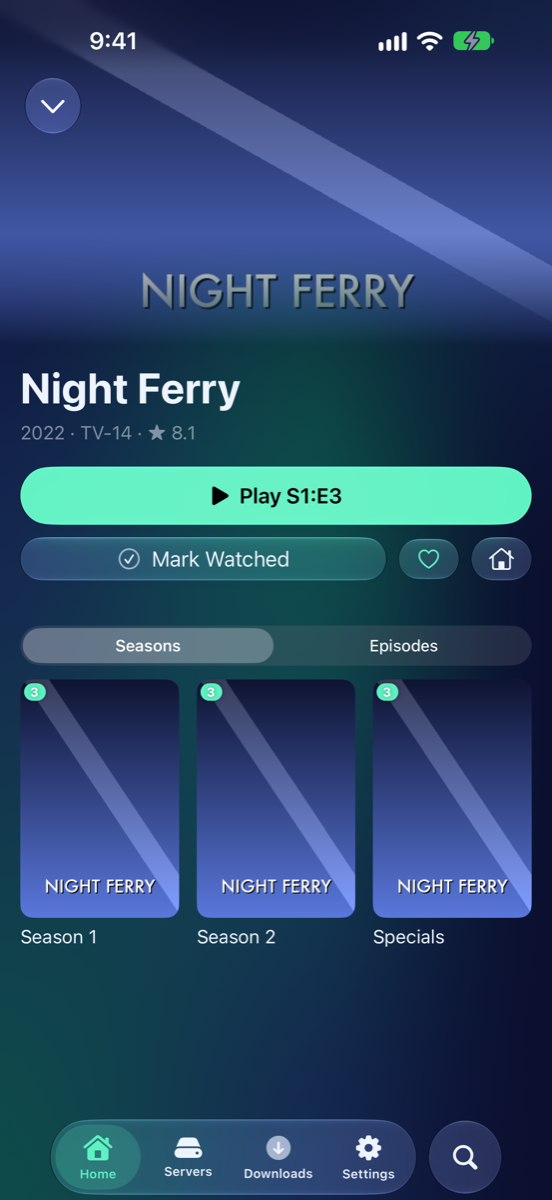
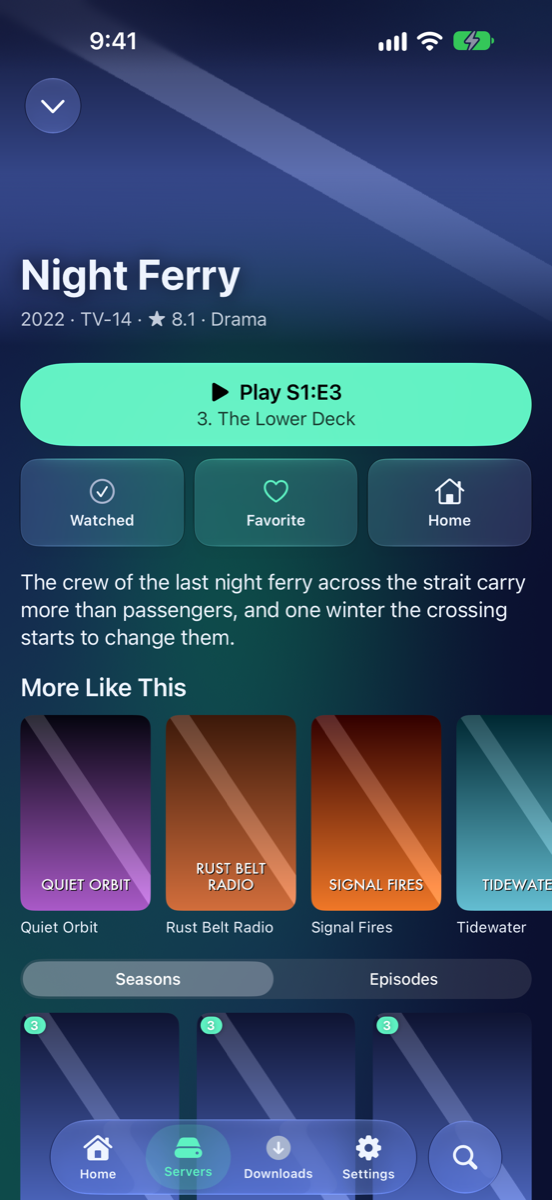
Publish the guide (from f89f5ee)

diff --git a/Jellyfin.md b/Jellyfin.md
@@ -49,7 +49,7 @@ The layout button changes a library to a list or one of the other layouts, and s
 
 ## A movie's page
 
-Tap a movie to open its page: the poster, a summary (tap **More** for the whole text), the cast and the buttons.
+Tap a movie to open its page: its picture with the title and the year, rating and running time on it, the buttons, a summary (tap **More** for the whole text), **More Like This** and the cast.
 
 <div class="shot" markdown="0">
 <div class="shot-variant shot-iphone-18-pro-max"><img src="images/iphone-18-pro-max/jellyfin-movie.png" alt="A movie's page with its play button, summary and cast, on an iPhone 18 Pro Max" loading="lazy"><div class="shot-label">iPhone 18 Pro Max</div></div>
@@ -57,14 +57,19 @@ Tap a movie to open its page: the poster, a summary (tap **More** for the whole 
 <div class="shot-variant shot-duo-open-side"><img src="images/duo-open-side/jellyfin-movie.png" alt="A movie's page with its play button, summary and cast, on the iPhone Duo, open on its side" loading="lazy"><div class="shot-label">iPhone Duo — open, on its side</div></div>
 </div>
 
-- **Play** starts the movie. If you've watched part of it, the button says **Resume** with the time you got to, such as **Resume 26:33**, and **From Beginning** starts over.
-- **Mark Watched** flags it as seen. It then reads **Watched**, and tapping again clears it.
-- The heart adds it to your favorites (**Add to Favorites**), and a filled heart takes it out (**Remove from Favorites**).
-- The house puts the movie on a Home. See [Your Home](Home-Screen.html).
-- The arrow, **Download**, saves the movie on your iPhone for offline watching. While it downloads the arrow turns into a progress ring, and tapping it gives you a menu to cancel or remove it. Everything you've saved is in the **Downloads** tab: see [Browsing your files](Browsing.html#downloads-for-offline).
+- **Play** starts the movie, with its running time under it. If you've watched part of it, the button says **Resume** with the time left under it, such as **1 hr 22 min left**.
+- Under it, buttons of one size, each with its name:
+  - **Restart** starts over, when you've watched part of it.
+  - **Watched** flags it as seen, and its check mark fills in. Tap it again to clear it.
+  - **Favorite** adds it to your favorites, and its heart fills in. Tap it again to take it out.
+  - **Home** puts the movie on a Home. See [Your Home](Home-Screen.html).
+  - **Download** saves the movie on your iPhone for offline watching. While it downloads it shows a progress ring, and tapping it gives you a menu to cancel or remove it. Everything you've saved is in the **Downloads** tab: see [Browsing your files](Browsing.html#downloads-for-offline).
+- **More Like This**, under the summary, shows what your server finds is like it. Tap one for its page. Settings → File Browsing → **More Like This** turns the row off.
 - **Cast & Crew** runs along the bottom.
 
-When you tap a movie or episode you've started, Settings → **Jellyfin** → **Partly Watched Videos** decides what happens. **Ask** offers **Resume from** the time you got to or **Start Over**, and **Resume** and **Start Over** do that every time. A movie's own page has **Resume** and **From Beginning** buttons either way.
+On the iPhone Duo open on its side, the page runs across the whole screen: the picture fills both halves, the title sits on the left, and the buttons and the rest are on the right, lower down where your thumb is. Nothing sits across the fold. Settings → File Browsing → **Movie Pages Across the Fold** turns it off, and the page is a card down the middle.
+
+When you tap a movie or episode you've started, Settings → **Jellyfin** → **Partly Watched Videos** decides what happens. **Ask** offers **Resume from** the time you got to or **Start Over**, and **Resume** and **Start Over** do that every time. A movie's own page has **Resume** and **Restart** buttons either way.
 
 ## A show's page
 
@@ -76,11 +81,11 @@ A show's page works the same way, with seasons and episodes added.
 <div class="shot-variant shot-duo-open-side"><img src="images/duo-open-side/jellyfin-series.png" alt="A show's page with its seasons and episodes, on the iPhone Duo, open on its side" loading="lazy"><div class="shot-label">iPhone Duo — open, on its side</div></div>
 </div>
 
-- The big button plays the next episode for you, and it says which one, such as **Play S2:E5** or **Resume 10:00**. It's the same episode that appears under **Next Up**.
+- The big button plays the next episode for you, and it says which one, such as **Play S2:E5** or **Resume S2:E5** with the time left. It's the same episode that appears under **Next Up**.
 - Under the summary, a **Seasons** and **Episodes** switch chooses between the season covers and a full list of episodes. In the episode list, the **Season** menu changes season.
 - Tap an episode to play it. Each shows its length, **Resume** and a time if you've started it, or **Watched** if you've seen it.
 - Press and hold an episode for **Mark Watched** or **Mark Unwatched** and **Download**.
-- **Mark Watched** and the heart apply to the whole show.
+- **Watched** and **Favorite** apply to the whole show.
 
 <div class="shot" markdown="0">
 <div class="shot-variant shot-iphone-18-pro-max"><img src="images/iphone-18-pro-max/jellyfin-episodes.png" alt="A show's episodes listed under Season 1, with the Season menu, on an iPhone 18 Pro Max" loading="lazy"><div class="shot-label">iPhone 18 Pro Max</div></div>

diff --git a/whats-new.md b/whats-new.md
@@ -12,6 +12,34 @@ The highlights of each MK Plus update since public TestFlight testing began (ver
 
 ## November 2026
 
+### A movie's page, redone
+
+_Version 1.344.0 · 11 November 2026_
+
+- The picture runs across the top of a movie's or show's page, with the title on it.
+- One big Resume shows the time left. Under it, Restart, Watched, Favorite and Download are the same size, each with its name.
+- More Like This, under the summary, shows what your server finds is similar.
+- On the iPhone Duo open on its side, the picture fills both halves and the buttons sit on the right, by your thumb.
+
+<img src="images/iphone-18-pro-max/jellyfin-movie.png" width="300" alt="A movie's page with its picture across the top, the title on it, one wide Resume with the time left and four named buttons, on an iPhone 18 Pro Max">
+
+<img src="images/duo-open-side/jellyfin-movie.png" width="300" alt="A movie's page across both halves of the iPhone Duo open on its side: the title on the left, the buttons on the right">
+
+<details markdown="1">
+<summary>Everything in 1.344.0</summary>
+
+**New**
+
+- More Like This on a Jellyfin movie's or show's page: a row of posters your server finds are similar. Tap one for its page. Settings → File Browsing → More Like This turns it off.
+- Movie Pages Across the Fold, for the iPhone Duo open on its side: a movie's or show's page runs across the whole screen, its picture behind both halves, the title on the left and the buttons and details on the right, lower down. Nothing sits across the fold. Turn it off in Settings → File Browsing → Cards for a card down the middle.
+
+**Changed**
+
+- A movie's or show's title, year, rating, running time and genre now sit on its picture, in one line.
+- Resume is one wide button with the time left under it (Play shows the running time). From Beginning is now Restart, and Restart, Watched, Favorite, Home and Download are buttons of one size with their names.
+
+</details>
+
 ### Home on the open iPhone Duo: Spotlight
 
 _Version 1.343.0 · 11 November 2026_

diff --git a/Settings-Home-Browsing.md b/Settings-Home-Browsing.md
@@ -120,13 +120,14 @@ Settings → **File Browsing** is about folders: how they look, what the buttons
 - **Zoom into Covers** grows a poster or cover you tap into the page it opens, and shrinks the page back into it when you close it. Off, or with Reduce Motion on, a card slides up as before.
 - **Dim Behind Cards** darkens the screen behind a card as it comes up.
 - **Blur Behind Cards** blurs what's behind a card that doesn't fill the screen, so the card is the one thing to read.
-- **Libraries Use the Whole Screen** (iPhone Duo and iPad): on its side, a server, library or folder opens as a card across the whole screen, six posters a row. A movie's or show's page stays a card down the middle.
+- **Libraries Use the Whole Screen** (iPhone Duo and iPad): on its side, a server, library or folder opens as a card across the whole screen, six posters a row.
+- **Movie Pages Across the Fold** (iPhone Duo): open on its side, a movie's or show's page runs across the whole screen, its picture behind both halves, the title on the left and the buttons on the right. Off, it's a card down the middle.
 
 With Show Advanced Settings on, this page also has **Selection Mark on Right** and **Swipe from the Left Closes Cards**.
 
 ### Carousels
 
-**Episodes on Show Pages** lists a Jellyfin show's episodes right under its details. **Specials Last** puts a show's Specials after its numbered seasons. **Seasons as a Carousel** and **Downloads as a Carousel** show big covers you page through instead of a grid.
+**Episodes on Show Pages** lists a Jellyfin show's episodes right under its details. **More Like This** puts a row of what your server finds is similar under a movie's or show's summary. **Specials Last** puts a show's Specials after its numbered seasons. **Seasons as a Carousel** and **Downloads as a Carousel** show big covers you page through instead of a grid.
 
 The iPhone Duo has more switches in the first section, and a **Cards on the iPhone Duo** section with Show Advanced Settings on. See [On your device](Devices.html).
 
